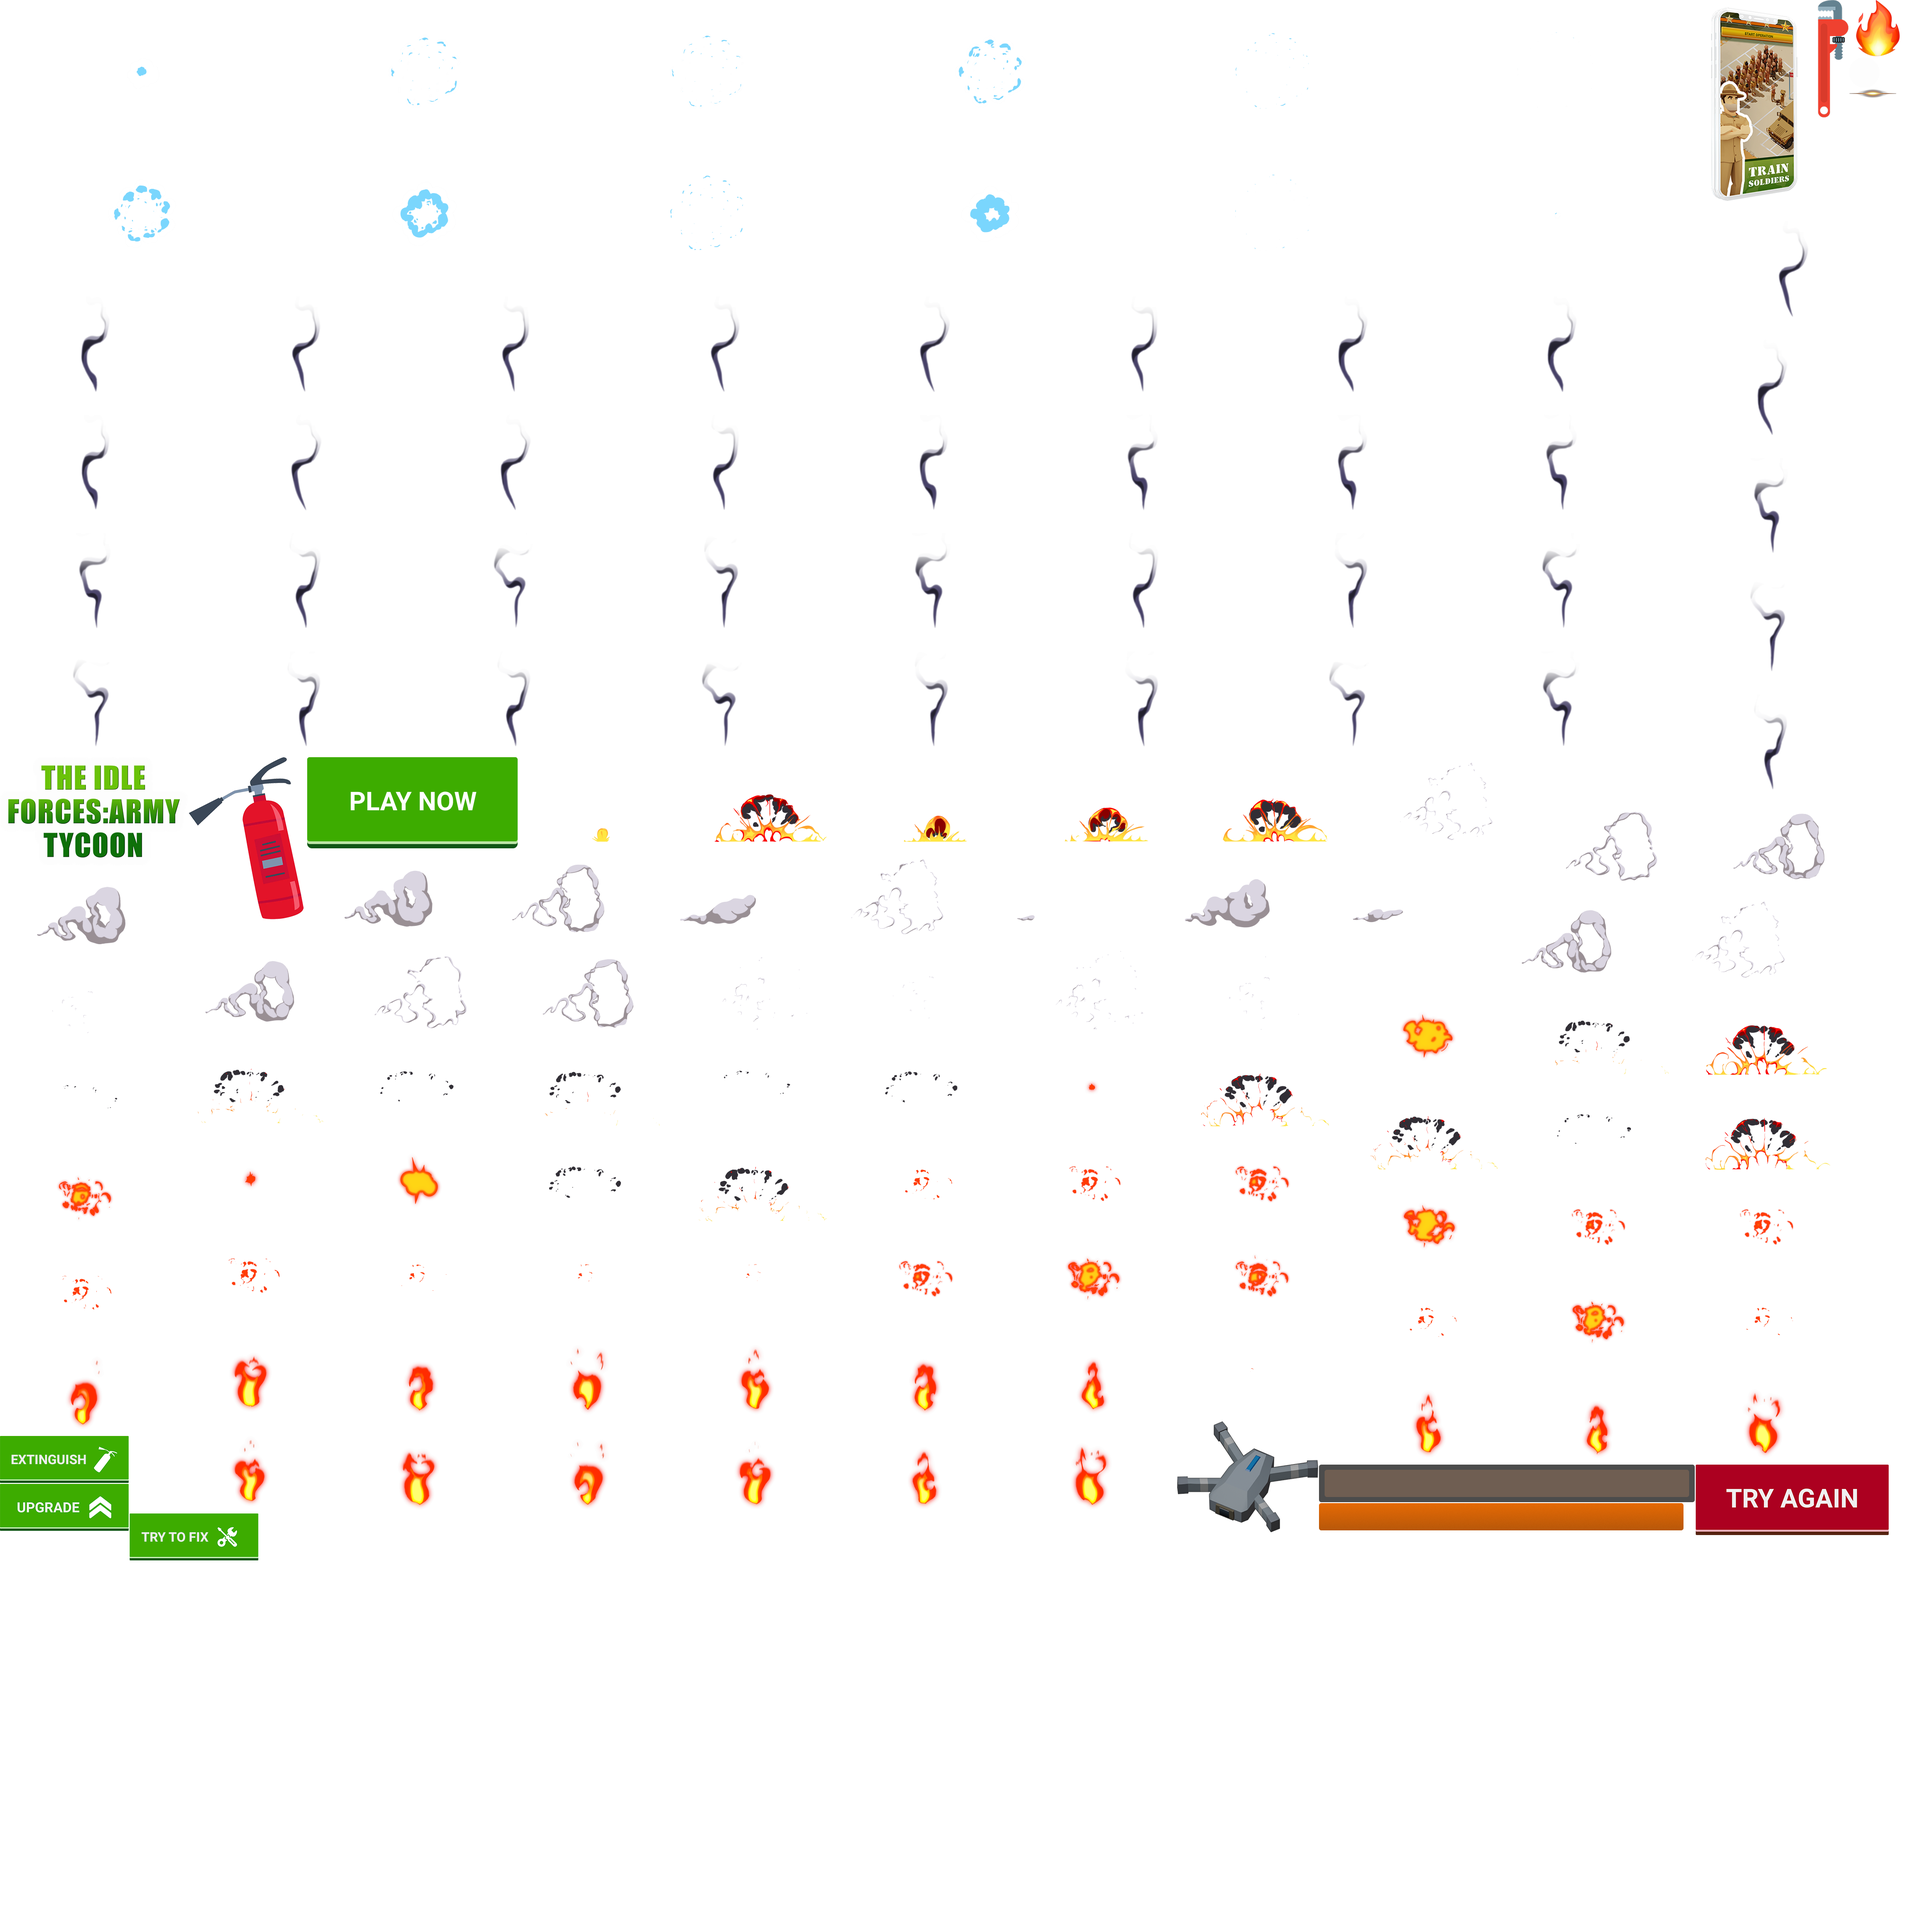
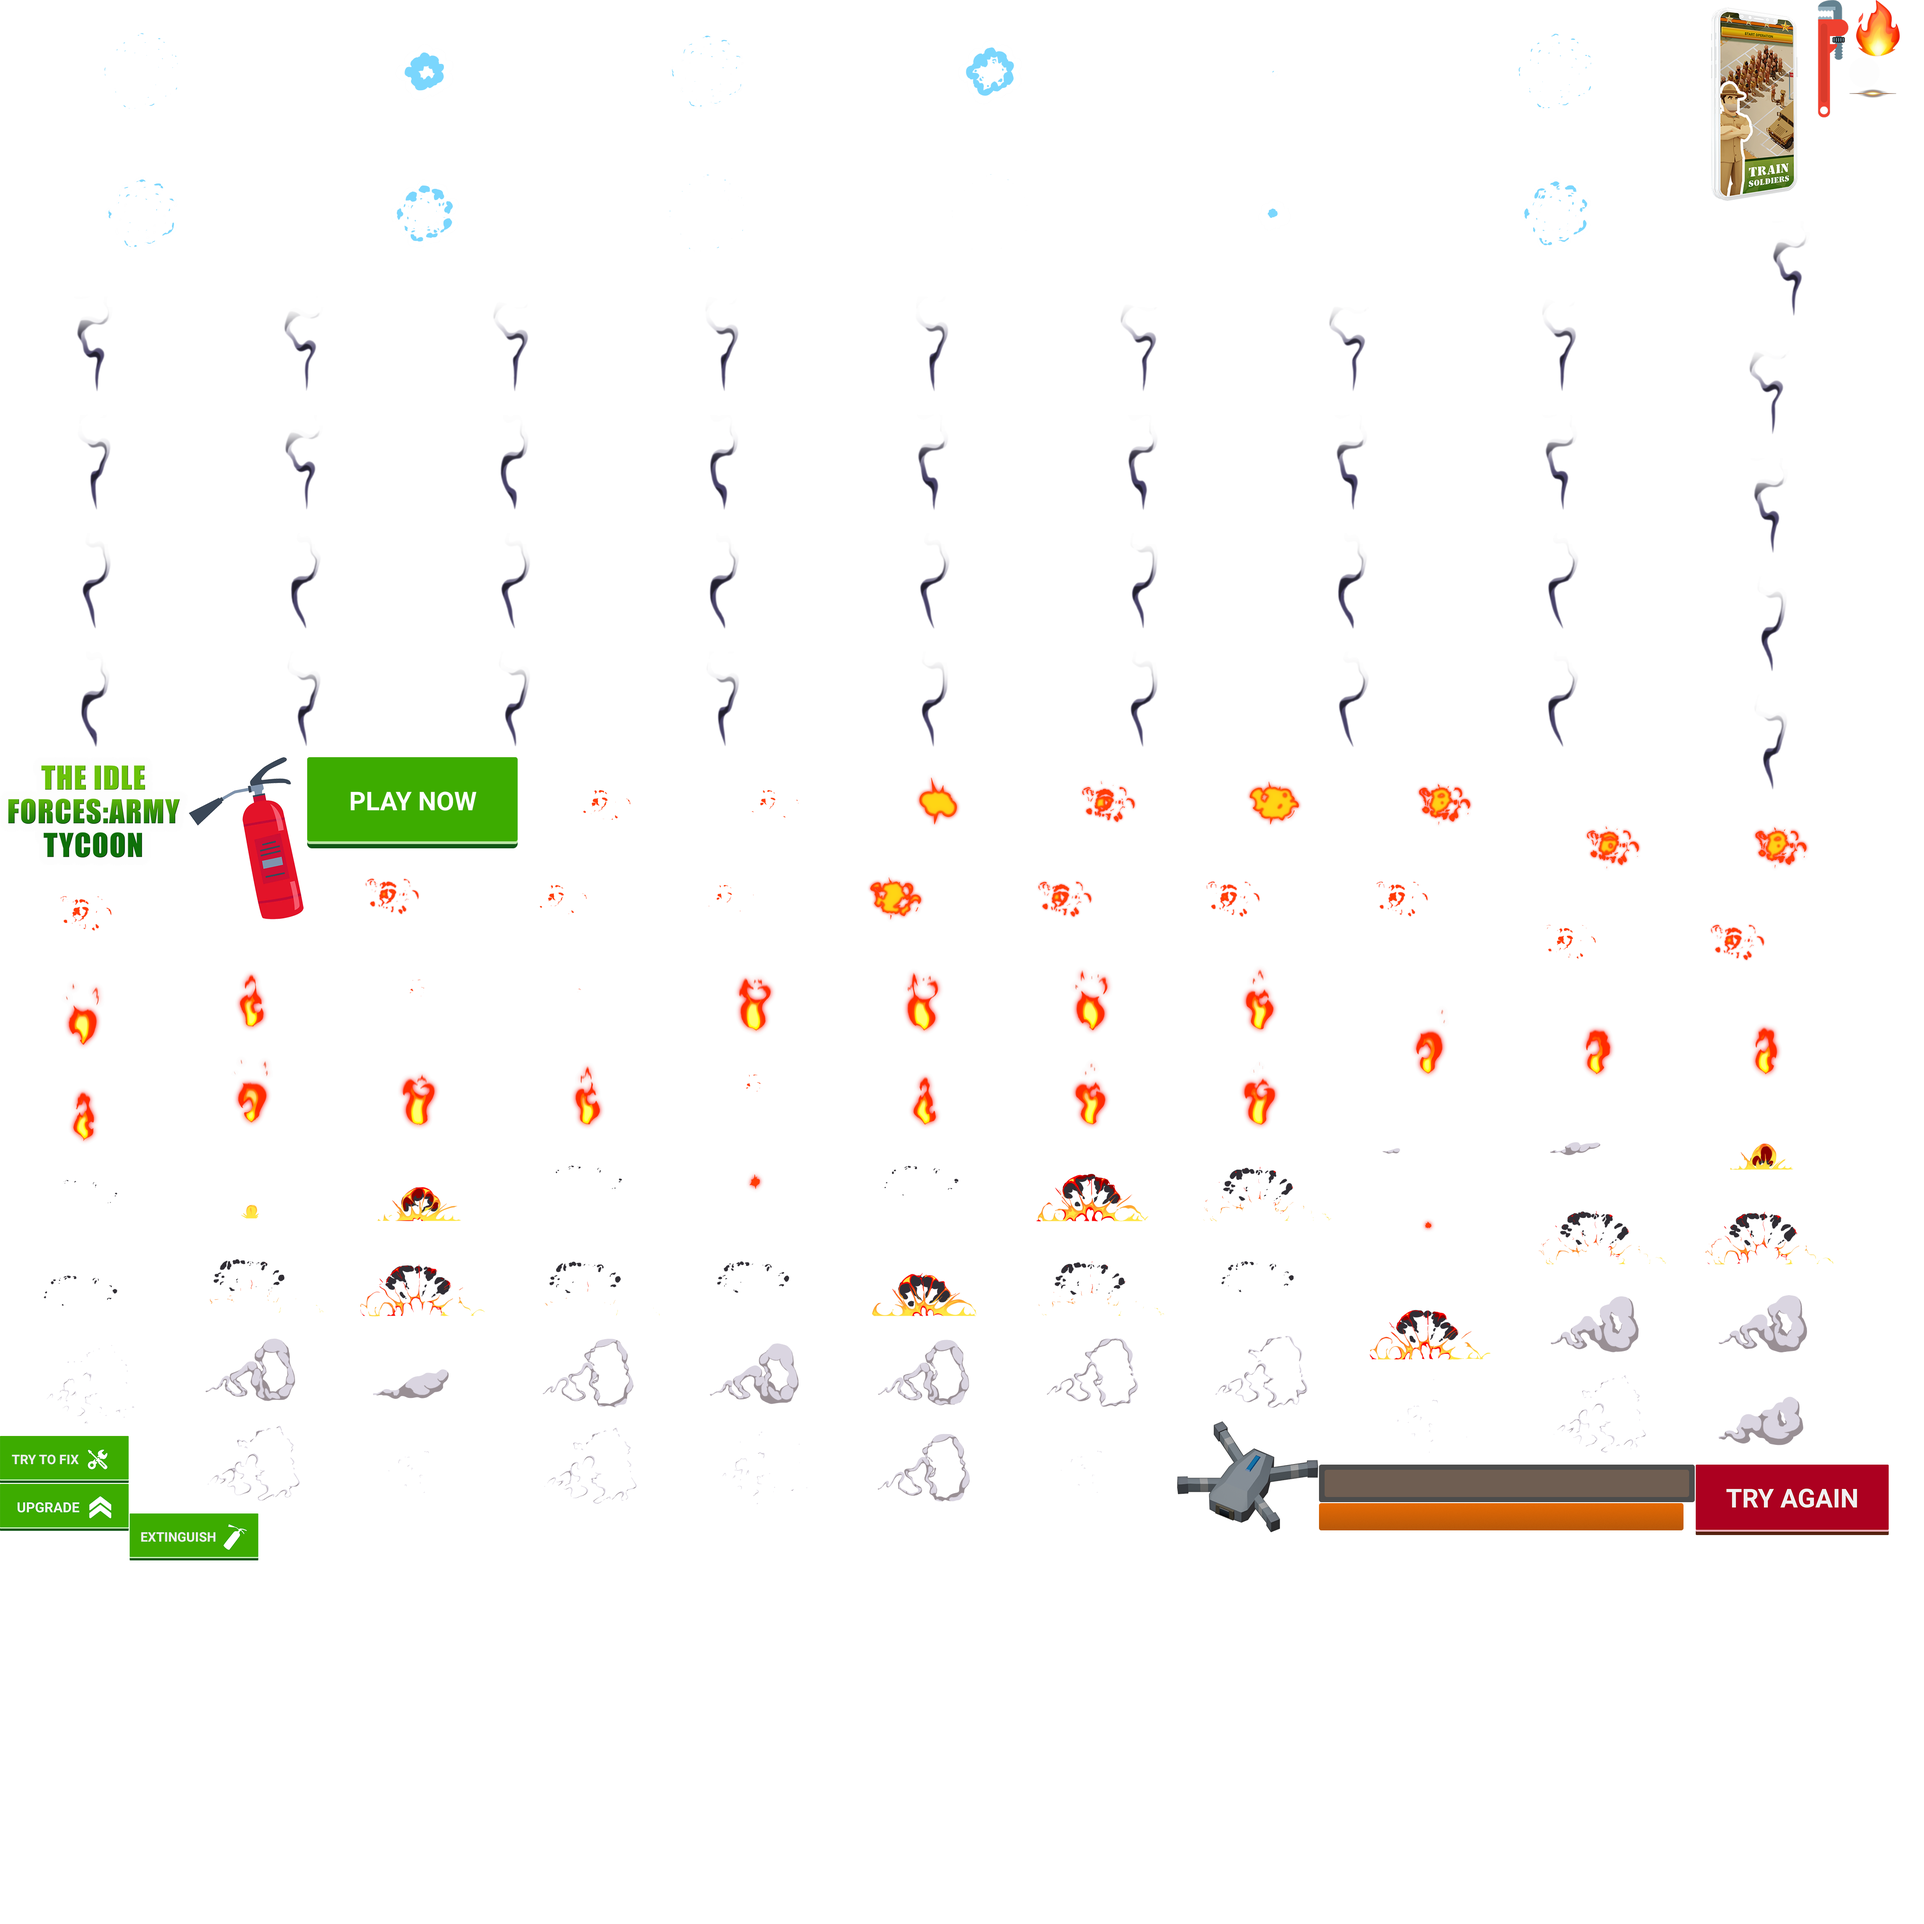
Add files via upload

diff --git a/index.html b/index.html
@@ -19,8 +19,8 @@
 var p; // shortcut to reference prototypes
 var lib={};var ss={};var img={};
 lib.ssMetadata = [
-		{name:"index_atlas_P_", frames: [[0,3057,274,100],[276,3222,274,100],[3610,3118,411,150],[0,3159,274,100],[654,1612,449,194],[3010,302,600,300],[0,0,600,300],[1806,302,600,300],[602,302,600,300],[0,302,600,300],[1806,0,600,300],[602,0,600,300],[1204,0,600,300],[1204,302,600,300],[2408,0,600,300],[2408,302,600,300],[3010,0,600,300],[3937,122,64,64],[2506,3026,300,236],[1105,1612,356,200],[1821,1612,356,200],[2179,1612,356,200],[2537,1612,356,200],[1463,1612,356,200],[3580,2108,356,200],[3580,2310,356,200],[2506,2218,356,200],[2864,2310,356,200],[1432,2420,356,200],[358,2212,356,200],[3222,2108,356,200],[1074,2218,356,200],[1074,2420,356,200],[1790,2218,356,200],[716,2218,356,200],[3222,2310,356,200],[1432,2218,356,200],[0,2249,356,200],[358,2414,356,200],[2148,2218,356,200],[716,2420,356,200],[2864,2108,356,200],[2864,2512,356,200],[2148,2622,356,200],[3222,2714,356,200],[0,2451,356,200],[2506,2622,356,200],[2506,2420,356,200],[1790,2622,356,200],[3222,2512,356,200],[3580,2512,356,200],[2148,2420,356,200],[358,2616,356,200],[0,2653,356,200],[1790,2420,356,200],[2864,2714,356,200],[3580,2714,356,200],[716,2622,356,200],[1074,2622,356,200],[1432,2622,356,200],[2506,2824,356,200],[2148,2824,356,200],[1790,3026,356,200],[2864,2916,356,200],[1432,2824,356,200],[358,3020,356,200],[1432,3026,356,200],[358,2818,356,200],[716,3026,356,200],[2148,3026,356,200],[3580,2916,356,200],[1074,2824,356,200],[1074,3026,356,200],[0,2855,356,200],[716,2824,356,200],[1790,2824,356,200],[3222,2916,356,200],[2808,3118,800,80],[3937,0,120,120],[402,1612,250,349],[0,1612,400,231],[2808,3200,776,58],[1784,1108,444,250],[3122,1360,444,250],[3122,1108,444,250],[892,1108,444,250],[1338,1360,444,250],[2676,1360,444,250],[0,1360,444,250],[3568,1200,444,250],[1338,1108,444,250],[1784,1360,444,250],[2676,1108,444,250],[2230,1360,444,250],[446,1360,444,250],[3568,1452,444,250],[892,1360,444,250],[446,1108,444,250],[2230,1108,444,250],[1338,856,444,250],[2230,604,444,250],[892,604,444,250],[446,604,444,250],[1338,604,444,250],[3612,444,444,250],[1784,604,444,250],[446,856,444,250],[892,856,444,250],[3568,696,444,250],[2676,604,444,250],[3122,604,444,250],[0,604,444,250],[0,856,444,250],[1784,856,444,250],[2676,856,444,250],[2230,856,444,250],[3122,856,444,250],[0,1108,444,250],[3568,948,444,250],[2086,1814,356,200],[2802,1814,356,200],[1370,1814,356,200],[2444,1814,356,200],[654,1808,356,200],[0,1845,356,200],[358,2010,356,200],[3160,1906,356,200],[3611,1704,356,200],[1012,1814,356,200],[1074,2016,356,200],[3253,1704,356,200],[716,2016,356,200],[1728,1814,356,200],[3518,1906,356,200],[2895,1612,356,200],[2148,2016,356,200],[1432,2016,356,200],[2506,2016,356,200],[0,2047,356,200],[1790,2016,356,200],[3612,0,256,442],[3937,188,100,22],[3870,0,65,250]]},
-		{name:"index_atlas_NP_", frames: [[0,1002,1000,1000],[1002,0,1000,1000],[0,0,1000,1000]]}
+		{name:"index_atlas_P_", frames: [[276,3222,274,100],[0,3057,274,100],[3610,3118,411,150],[0,3159,274,100],[654,1612,449,194],[2408,0,600,300],[2408,302,600,300],[602,0,600,300],[1806,0,600,300],[602,302,600,300],[3010,302,600,300],[0,302,600,300],[1204,0,600,300],[3010,0,600,300],[0,0,600,300],[1204,302,600,300],[1806,302,600,300],[3937,122,64,64],[2506,3026,300,236],[358,2414,356,200],[3580,2310,356,200],[716,2420,356,200],[1790,2622,356,200],[2148,2420,356,200],[2864,2714,356,200],[716,2622,356,200],[3580,2512,356,200],[3222,2512,356,200],[2506,2420,356,200],[2148,2622,356,200],[358,2616,356,200],[1074,2622,356,200],[1432,2622,356,200],[2506,2622,356,200],[0,2653,356,200],[1790,2420,356,200],[1074,2420,356,200],[0,2451,356,200],[1432,2420,356,200],[2864,2512,356,200],[1821,1612,356,200],[2537,1612,356,200],[1728,1814,356,200],[3611,1704,356,200],[2895,1612,356,200],[3253,1704,356,200],[2179,1612,356,200],[2086,1814,356,200],[3518,1906,356,200],[654,1808,356,200],[2444,1814,356,200],[2802,1814,356,200],[0,1845,356,200],[3160,1906,356,200],[1105,1612,356,200],[1012,1814,356,200],[1463,1612,356,200],[1370,1814,356,200],[1432,2218,356,200],[716,2016,356,200],[1074,2016,356,200],[1790,2218,356,200],[358,2010,356,200],[1074,2218,356,200],[2506,2016,356,200],[2148,2218,356,200],[2506,2218,356,200],[716,2218,356,200],[1432,2016,356,200],[1790,2016,356,200],[2148,2016,356,200],[0,2047,356,200],[358,2212,356,200],[2864,2108,356,200],[3222,2108,356,200],[3580,2108,356,200],[0,2249,356,200],[2808,3118,800,80],[3937,0,120,120],[402,1612,250,349],[0,1612,400,231],[2808,3200,776,58],[0,604,444,250],[3612,444,444,250],[446,856,444,250],[446,604,444,250],[3568,696,444,250],[2676,604,444,250],[2230,604,444,250],[892,604,444,250],[3122,604,444,250],[1338,604,444,250],[1784,604,444,250],[0,856,444,250],[1338,1360,444,250],[446,1360,444,250],[3568,1452,444,250],[892,1360,444,250],[3568,1200,444,250],[2230,1108,444,250],[1784,1360,444,250],[2230,1360,444,250],[0,1108,444,250],[892,1108,444,250],[1784,1108,444,250],[2676,1360,444,250],[3122,1108,444,250],[3122,1360,444,250],[446,1108,444,250],[1338,1108,444,250],[2676,1108,444,250],[0,1360,444,250],[892,856,444,250],[1338,856,444,250],[2230,856,444,250],[1784,856,444,250],[2676,856,444,250],[3122,856,444,250],[3568,948,444,250],[2864,2310,356,200],[3222,2310,356,200],[716,2824,356,200],[3580,2916,356,200],[3222,2714,356,200],[3580,2714,356,200],[1432,2824,356,200],[358,2818,356,200],[1790,2824,356,200],[1790,3026,356,200],[1074,2824,356,200],[2148,2824,356,200],[2506,2824,356,200],[358,3020,356,200],[1074,3026,356,200],[3222,2916,356,200],[0,2855,356,200],[1432,3026,356,200],[2864,2916,356,200],[716,3026,356,200],[2148,3026,356,200],[3612,0,256,442],[3937,188,100,22],[3870,0,65,250]]},
+		{name:"index_atlas_NP_", frames: [[0,0,1000,1000],[0,1002,1000,1000],[1002,0,1000,1000]]}
 ];
 // symbols:
 (lib.basic = function() {
@@ -2299,6 +2299,7 @@ p.nominalBounds = new cjs.Rectangle(-1500,-1500,3000,3000);
 		var upgradeBtn = main.bottom.upgrade;
 		var playnowBtn = main.playnow;
 		var tryAgainBtn = base.tryAgain;
+		var counter = 0;
 		extingushBtn.clickable = true;
 		repairBtn.clickable = true;
 		upgradeBtn.clickable = true;
@@ -2379,7 +2380,18 @@ p.nominalBounds = new cjs.Rectangle(-1500,-1500,3000,3000);
 			}
 		}
 		tryAgainBtn.addEventListener('click', function () {
-			location.reload();
+			if (counter == 0 ) {
+				base.gotoAndStop(0);
+				main.drones.gotoAndPlay(1);
+				main.bottom.visible = true;
+				main.bottom.gotoAndStop(0);
+				musicBG.pause();
+				fireSFX.pause();
+				failSFX.pause();
+				counter ++;
+			} else {
+				CallToAction();
+			}	
 		});
 		function resizeCanvas(canvas, context, width, height) {
 			var tmpCanvas = document.createElement('canvas');;
@@ -2476,8 +2488,8 @@ lib.properties = {
 	color: "#FFFFFF",
 	opacity: 1.00,
 	manifest: [
-		{src:"index_atlas_P_.png?1670856672720", id:"index_atlas_P_"},
-		{src:"index_atlas_NP_.jpg?1670856672720", id:"index_atlas_NP_"}
+		{src:"index_atlas_P_.png?1670912012836", id:"index_atlas_P_"},
+		{src:"index_atlas_NP_.jpg?1670912012836", id:"index_atlas_NP_"}
 	],
 	preloads: []
 };
@@ -2563,7 +2575,7 @@ function handleComplete(evt,comp) {
 	//Code to support hidpi screens and responsive scaling.
 	function makeResponsive(isResp, respDim, isScale, scaleType) {		
 		var lastW, lastH, lastS=1;		
-	function resizeCanvas() {			
+		function resizeCanvas() {			
 			var w = lib.properties.width, h = lib.properties.height;			
 			var iw = window.innerWidth, ih=window.innerHeight;			
 			var pRatio = window.devicePixelRatio || 1, xRatio=iw/w, yRatio=ih/h, sRatio=1;			
